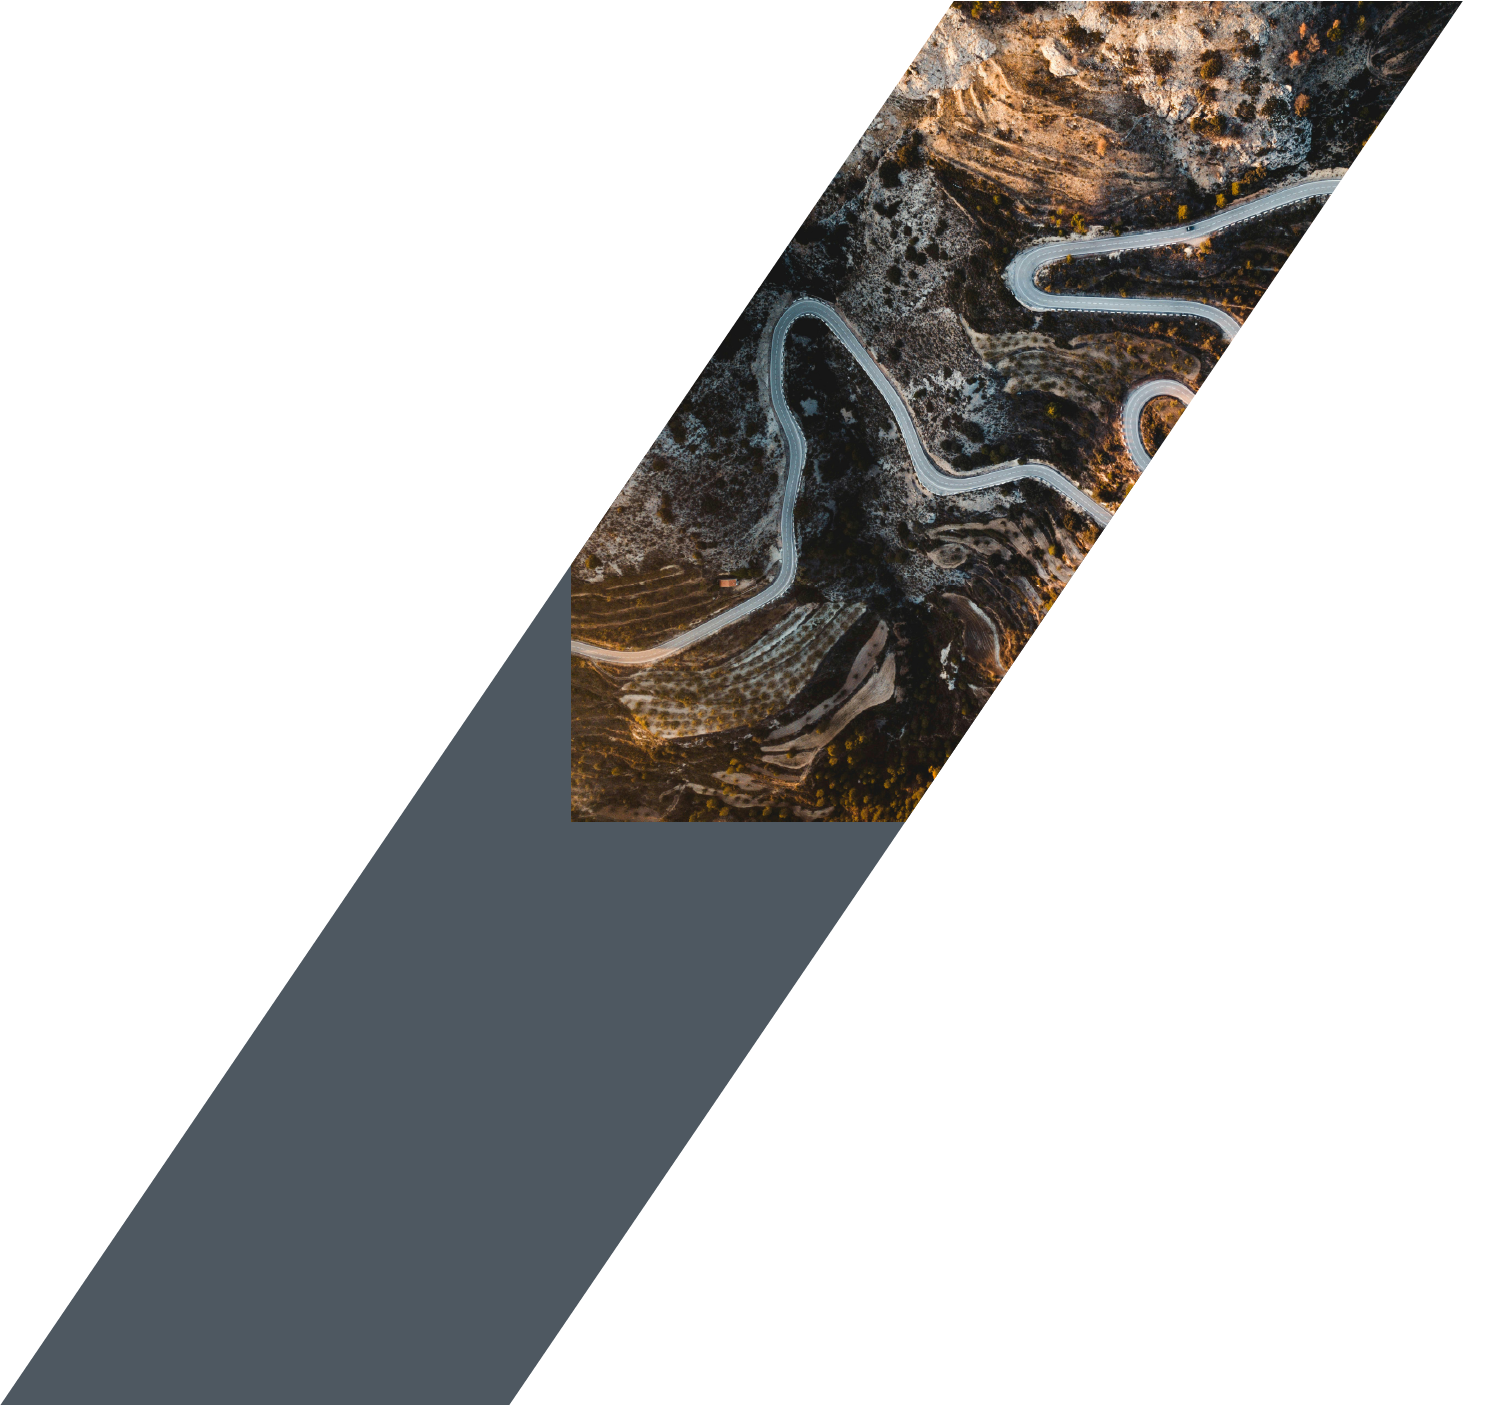
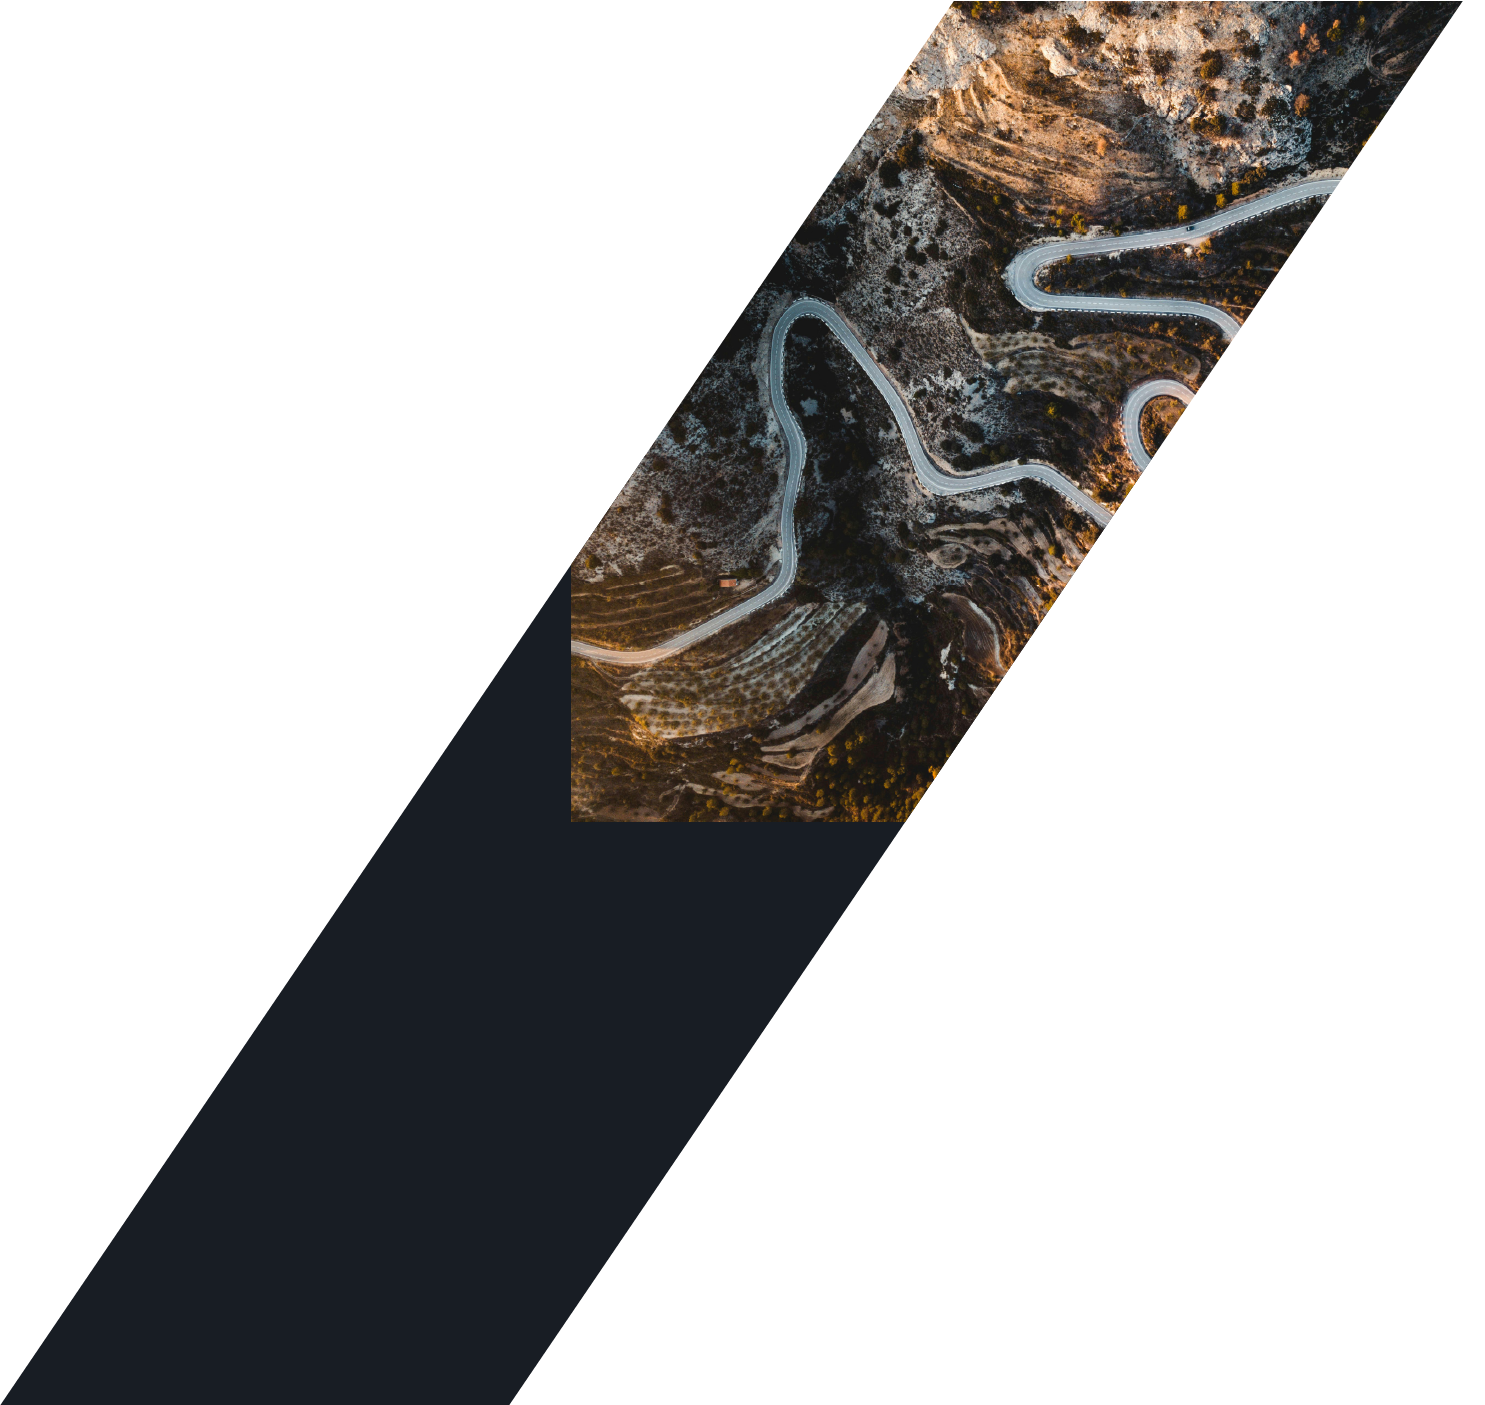
Update home background and body background color

Changed region(s): [[0.0, 0.3979, 0.6195, 1.0]]

diff --git a/src/app/globals.css b/src/app/globals.css
@@ -23,7 +23,7 @@
 
 body {
   color: rgb(var(--foreground-rgb));
-  background-color: #ccd3d9;
+  background-color: #222529;
 }
 
 @layer utilities {
